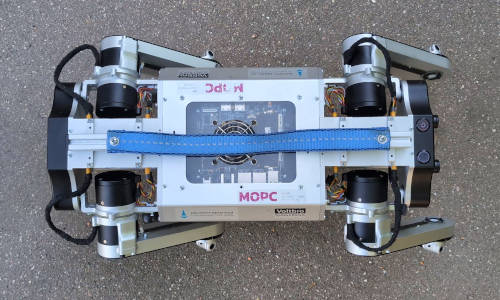
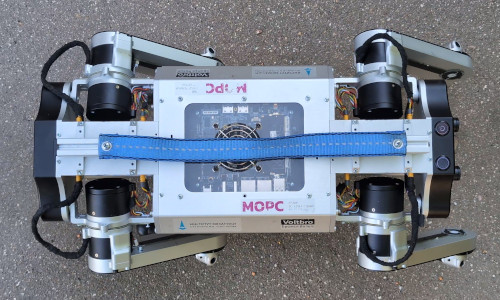
MORS portfolio update

diff --git a/_portfolio/1_mors.md b/_portfolio/1_mors.md
@@ -1,10 +1,10 @@
 ---
 title: "MORS"
-excerpt: "Low-volume production compact quadruped robot for education and robotics research<br/><img src='/images/mors/mors_preview.jpg'>"
+excerpt: "Compact quadruped robot for robotics research and low-volume production<br/><img src='/images/mors/mors_preview.jpg'>"
 collection: portfolio
 ---
 
-MORS is a lightweight 12-DoF quadruped robot developed as a compact, reliable platform for robotics research and low-volume production.
+MORS is a lightweight 12-DoF quadruped developed as a compact, reliable robotics research platform and produced in a ten-unit low-volume batch.
 
 The project followed the earlier Boxer quadruped. Boxer proved the basic actuator and control architecture, but remained a heavy research prototype. MORS was intended to be a much more repeatable machine: compact enough to transport easily, mechanically designed as a complete product, and reliable enough to serve as a stable platform for advanced locomotion research.
 
@@ -14,6 +14,8 @@ A [paper](https://www.researchgate.net/publication/389319462_MORS_BLDC-Based_Sma
 The robot also has its own [Instagram](https://www.instagram.com/mors_quadruped/).
 
 {% include youtube.html id="X0VH79P7XvY" %}
+
+### 12 DoF · 7.4 kg · 5.5 kg tested payload · 1.2 m/s · 6S Li-ion · 10 robots produced
 
 
 ## From Boxer to MORS
@@ -83,7 +85,7 @@ The communication architecture grew out of a practical problem: the PCIe CAN-FD 
 
 An Ethernet prototype on STM32F4 showed sub-millisecond response, leading to a dedicated bridge based on STM32H723 and STM32G474.
 
-The final board provided six independent CAN-FD buses; MORS used five. Four buses served the four legs and preserved a linear topology on each leg, while the fifth connected the PowerBoard.
+The final board provided six independent CAN-FD buses; MORS used five. Four buses served the four legs as independent linear CAN-FD segments, while the fifth connected the PowerBoard.
 
 The bridge exposed two communication paths:
 
@@ -108,11 +110,7 @@ The PowerBoard was intended for the wider VBCores ecosystem, but several practic
 
 ## IMU
 
-Earlier robot generations used the Bosch BNO055. During MORS development I evaluated replacements and selected the BHI360 for its higher update rate and supported Bosch SDK.
-
-I ported Bosch's BHY2 software to STM32 and developed a BHI360 + BMM350 module together with a VBCore-based USB adapter running TinyUSB.
-
-The BMM350 magnetometer proved unreliable inside MORS because of interference from the twelve electric motors, so the robot primarily used accelerometer/gyroscope data and the BHI360 game-rotation-vector output rather than magnetic heading.
+I replaced the BNO055 used in earlier robots with a BHI360-based module, porting Bosch's BHY2 SDK to STM32 and developing a TinyUSB interface for the onboard computer. A BMM350 magnetometer was evaluated but proved unreliable near the robot's twelve motors, so MORS operated primarily on accelerometer/gyroscope data and game-rotation-vector output.
 
 
 ## From one robot to ten
@@ -137,9 +135,6 @@ Final integration was still largely manual. For the ten-robot batch I assembled 
 
 ![Pre-production MORS](/images/mors/mors_second_assembly.jpg)
 *Work on the pre-production robot.*
-
-![Motor characterization](/images/mors/mors_kv_meas.jpg)
-*Measuring motor KV during actuator development.*
 
 ![Production electronics](/images/mors/mors_body_electronics.jpg)
 *Body electronics during production assembly.*
